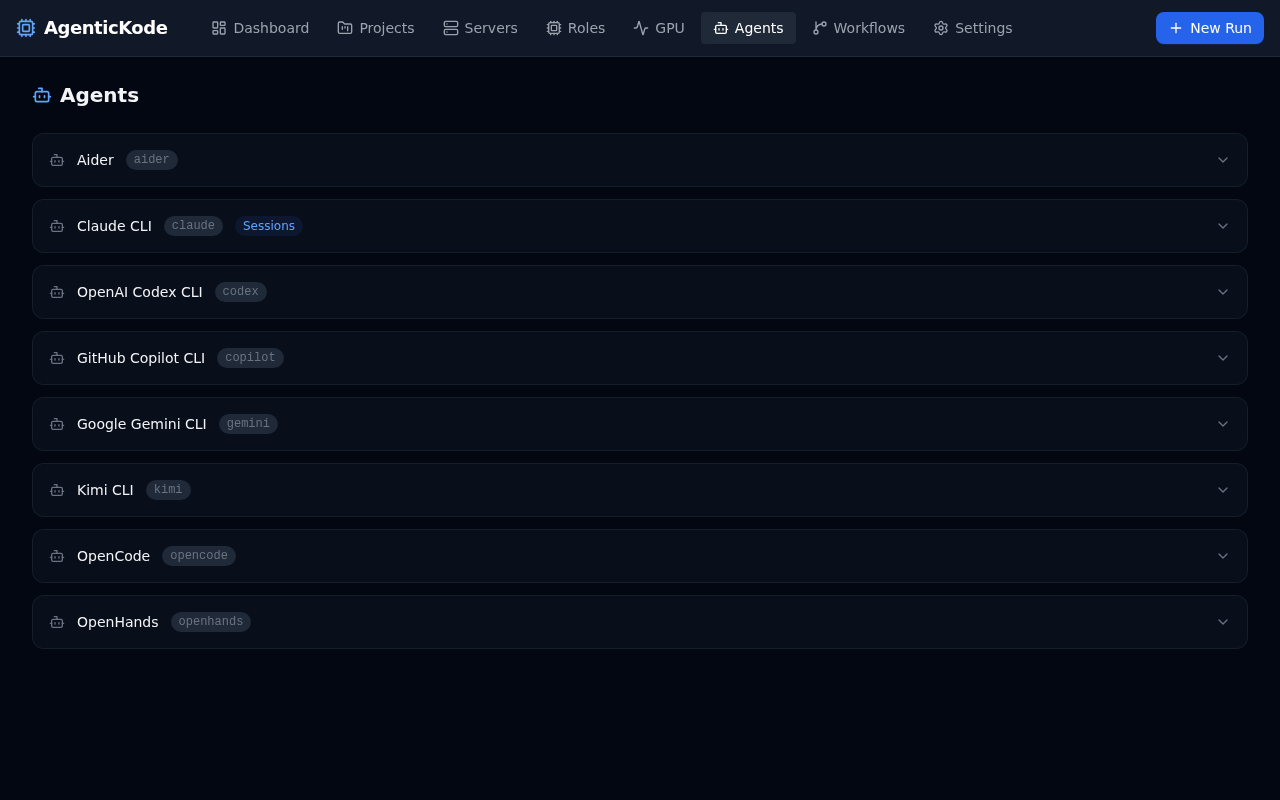
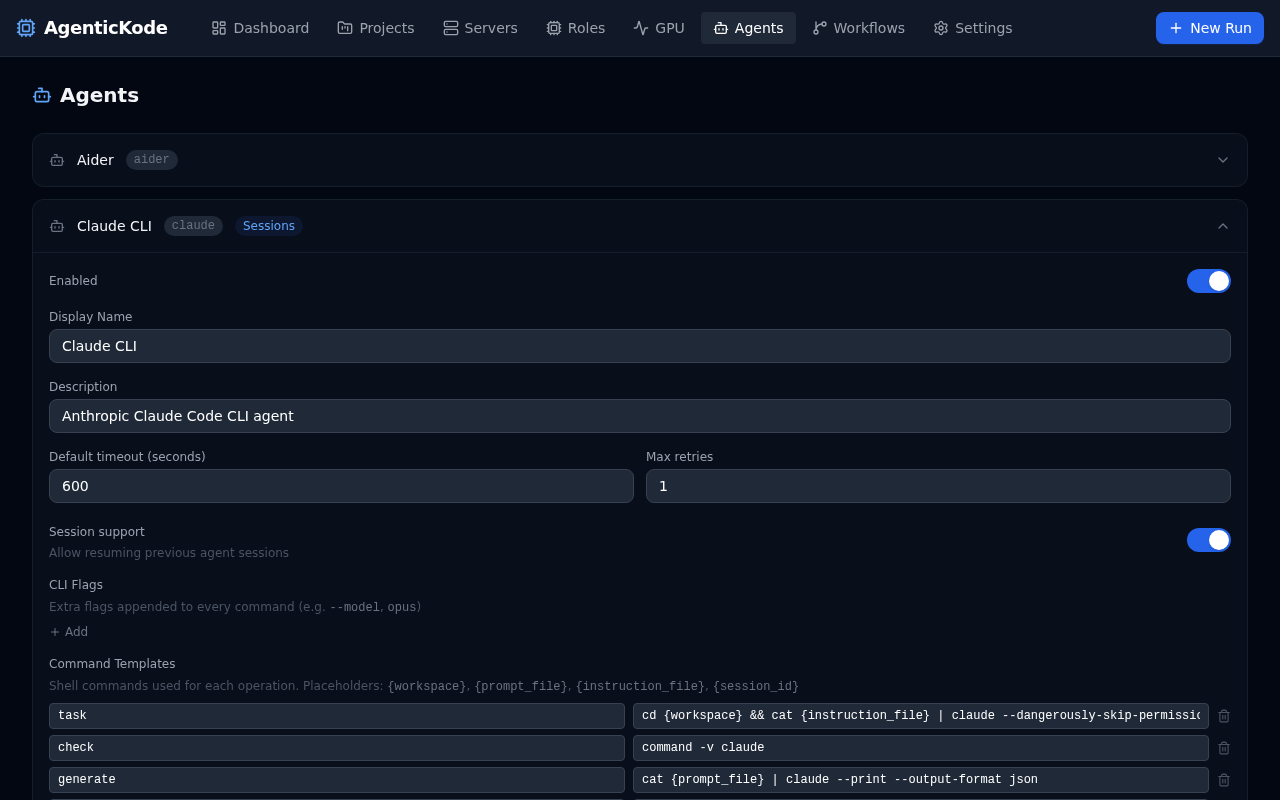
Update screenshots with anonymized data and fix capture issues
- Fix workspace servers page (wrong route /servers → /workspace-servers)
- Fix agents-expanded to actually click and expand Claude CLI row
- Anonymize all project names (beautygroup→web-store, openbook-core→notebook-app)
- Anonymize real server IPs to 10.0.x.xx
- Add capture.js script for reproducible screenshot generation
- Regenerate demo GIF with all fixes

Changed region(s): [[0.0312, 0.3438, 0.9688, 1.0], [0.9062, 0.3125, 0.9688, 0.375], [0.2812, 0.75, 0.3125, 0.7812]]

diff --git a/docs/screenshots/capture.js b/docs/screenshots/capture.js
@@ -1,0 +1,116 @@
+const { chromium } = require('playwright');
+const fs = require('fs');
+const path = require('path');
+
+const SENSITIVE_REPLACEMENTS = {
+  // Full compound names first (order matters - longest match first)
+  'viminkas/prestashop': 'acme/web-store',
+  'mechemsi-openbook-core': 'myorg/notebook-app',
+  'mechemsi-timetracker': 'myorg/time-tracker',
+  'mechemsi/openbook-core': 'myorg/notebook-app',
+  'mechemsi/linker': 'myorg/url-shortener',
+  'mechemsi/agentickode': 'myorg/agentickode',
+  // Org names
+  'mechemsi': 'myorg',
+  'viminkas': 'acme',
+  // Project names / slugs
+  'beautygroup': 'web-store',
+  'openbook-core': 'notebook-app',
+  'openbook': 'notebook',
+  'prestashop': 'web-store',
+  'linker': 'url-shortener',
+  'timetracker': 'time-tracker',
+  // IPs
+  '192.168.1.183': '10.0.1.xx',
+  '192.168.1.235': '10.0.2.xx',
+  '192.168.1.81': '10.0.3.xx',
+  '192.168.1.': '10.0.x.',
+  // Username
+  'domas': 'user',
+};
+
+async function sanitizeDOM(page) {
+  await page.evaluate((replacements) => {
+    const walker = document.createTreeWalker(document.body, NodeFilter.SHOW_TEXT);
+    while (walker.nextNode()) {
+      let text = walker.currentNode.textContent;
+      for (const [from, to] of Object.entries(replacements)) {
+        text = text.split(from).join(to);
+      }
+      walker.currentNode.textContent = text;
+    }
+    document.querySelectorAll('svg text, svg tspan').forEach(el => {
+      let text = el.textContent;
+      for (const [from, to] of Object.entries(replacements)) {
+        text = text.split(from).join(to);
+      }
+      el.textContent = text;
+    });
+    document.querySelectorAll('input, textarea').forEach(el => {
+      let val = el.value;
+      for (const [from, to] of Object.entries(replacements)) {
+        val = val.split(from).join(to);
+      }
+      el.value = val;
+    });
+  }, SENSITIVE_REPLACEMENTS);
+}
+
+async function main() {
+  const browser = await chromium.launch({ headless: true });
+  const context = await browser.newContext({ viewport: { width: 1280, height: 800 } });
+  const page = await context.newPage();
+
+  const outDir = __dirname;
+  const framesDir = path.join(outDir, 'frames');
+  if (!fs.existsSync(framesDir)) fs.mkdirSync(framesDir);
+
+  const pages = [
+    { url: 'http://localhost:5173/', name: 'dashboard', file: 'dashboard.png', frames: 10 },
+    { url: 'http://localhost:5173/runs/23', name: 'run-detail', file: 'run-detail-top.png', frames: 10 },
+    { url: 'http://localhost:5173/projects', name: 'projects', file: 'projects.png', frames: 10 },
+    { url: 'http://localhost:5173/workspace-servers', name: 'servers', file: 'workspace-servers.png', frames: 10 },
+    { url: 'http://localhost:5173/agents', name: 'agents', file: 'agents.png', frames: 10 },
+    { url: 'http://localhost:5173/workflows', name: 'workflows', file: 'workflows.png', frames: 8 },
+    { url: 'http://localhost:5173/settings', name: 'settings', file: 'settings.png', frames: 8 },
+  ];
+
+  let frameNum = 0;
+
+  for (const pg of pages) {
+    console.log(`Capturing ${pg.name}...`);
+    await page.goto(pg.url, { waitUntil: 'domcontentloaded', timeout: 15000 });
+    await page.waitForTimeout(2000);
+    await sanitizeDOM(page);
+
+    await page.screenshot({ path: path.join(outDir, pg.file) });
+    console.log(`  Saved ${pg.file}`);
+
+    for (let i = 0; i < pg.frames; i++) {
+      const framePath = path.join(framesDir, `frame_${String(frameNum).padStart(4, '0')}.png`);
+      await page.screenshot({ path: framePath });
+      frameNum++;
+    }
+  }
+
+  // Agents expanded - click Claude CLI row to expand it
+  console.log('Capturing agents-expanded...');
+  await page.goto('http://localhost:5173/agents', { waitUntil: 'domcontentloaded', timeout: 15000 });
+  await page.waitForTimeout(2000);
+  try {
+    // The agent rows are divs with chevron icons - click the Claude CLI chevron
+    const claudeRow = page.locator('text=Claude CLI').first();
+    if (await claudeRow.count() > 0) {
+      await claudeRow.click();
+      await page.waitForTimeout(800);
+    }
+  } catch (e) { console.log('  Could not expand Claude row:', e.message); }
+  await sanitizeDOM(page);
+  await page.screenshot({ path: path.join(outDir, 'agents-expanded.png') });
+  console.log('  Saved agents-expanded.png');
+
+  await browser.close();
+  console.log(`\nDone! ${frameNum} frames captured for GIF.`);
+}
+
+main().catch(e => { console.error(e); process.exit(1); });
